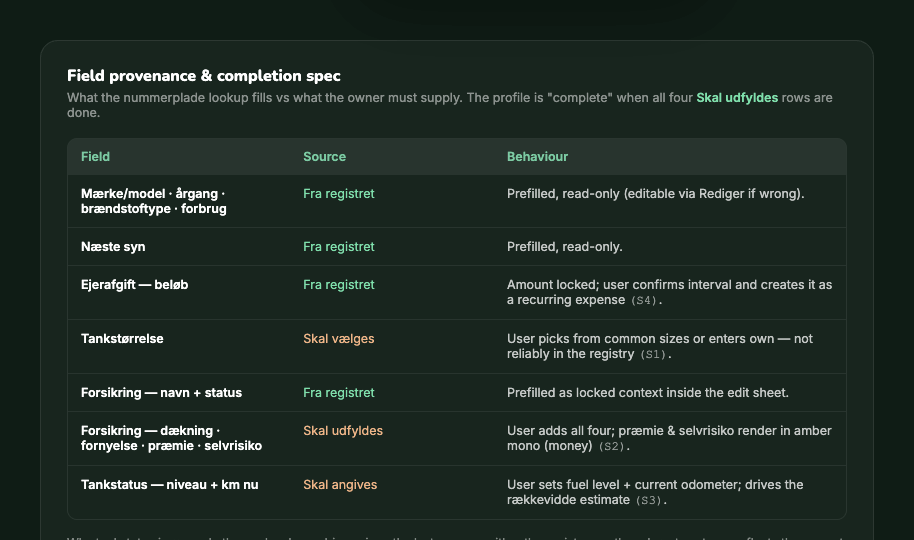
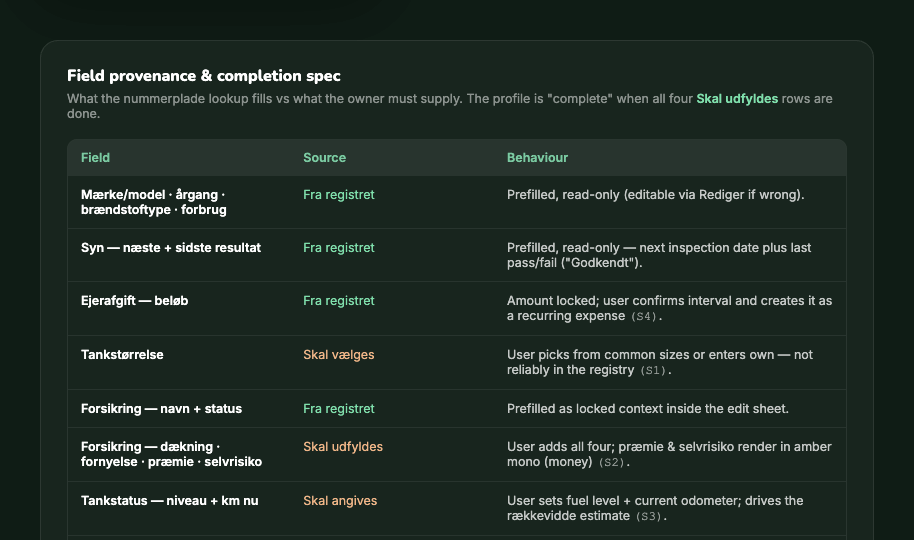
docs: Bilen handoff v2 — Syn section + Reparationshistorik + S5 sheet (prototype 20)
Adds the read-only Syn section (næste + sidste syn), the owner-logged
Reparationshistorik (dashed empty state / populated list, amber-mono costs)
and the S5 'Tilføj reparation' sheet. Product note: the split-with-crew
toggle and per-entry split affordances are NOT implemented for now — repair
expense sharing will be decided as an Afregning setting (GVM ticket).

diff --git a/design_handoff_bilen/GoVehlo Bilen.dc.html b/design_handoff_bilen/GoVehlo Bilen.dc.html
@@ -205,7 +205,7 @@
         <div style="margin-bottom:28px;">
       <div style="font-family:'Inter',sans-serif;font-size:11px;font-weight:700;color:#7EC8A4;letter-spacing:.16em;text-transform:uppercase;margin-bottom:10px;">Bilen — chosen design (split tracks)</div>
       <h2 style="font-family:'Nunito',sans-serif;font-weight:900;font-size:26px;color:#fff;margin:0 0 10px;letter-spacing:-.01em;">Two tracks: review the auto data, do your part</h2>
-      <p style="font-family:'Inter',sans-serif;font-size:14px;color:rgba(255,255,255,.6);margin:0;max-width:700px;line-height:1.6;text-wrap:pretty;">A two-track band splits the profile into <b style="color:#7EE0AB;font-weight:600;">Fra registret</b> (already done, trust it) and <b style="color:#fff;font-weight:600;">Skal udfyldes</b> (your job). All the work lives in one "Skal udfyldes af dig" card up top; the sections below stay calm — empty fields read "Ikke angivet" rather than shouting a CTA in every section.</p>
+      <p style="font-family:'Inter',sans-serif;font-size:14px;color:rgba(255,255,255,.6);margin:0;max-width:700px;line-height:1.6;text-wrap:pretty;">A two-track band splits the profile into <b style="color:#7EE0AB;font-weight:600;">Fra registret</b> (already done, trust it) and <b style="color:#fff;font-weight:600;">Skal udfyldes</b> (your job). All the work lives in one "Skal udfyldes af dig" card up top; the sections below stay calm — empty fields read "Ikke angivet" rather than shouting a CTA in every section. Syn shows next inspection + last result from the registry; Reparationshistorik is an owner-logged, splittable expense log — empty in B1, populated in B2.</p>
     </div>
     <div style="display:flex;gap:28px;flex-wrap:wrap;align-items:flex-start;">
 
@@ -243,8 +243,16 @@
               <div style="background:#fff;border-radius:16px;padding:2px 16px;box-shadow:0 1px 3px rgba(26,46,31,.07),0 2px 8px rgba(26,46,31,.04);">
                 <div style="display:flex;align-items:center;gap:12px;padding:13px 0;"><svg width="18" height="18" viewBox="0 0 24 24" fill="none" stroke="#6B8F7A" stroke-width="2" stroke-linecap="round" stroke-linejoin="round"><path d="M3 12h11v6H3z"></path><path d="M14 14h3l2 2v2h-5"></path></svg><span style="flex:1;font-family:'Inter',sans-serif;font-size:14px;color:#6B8F7A;">Mærke/model</span><span style="font-family:'Inter',sans-serif;font-size:14px;font-weight:600;color:#1A2E1F;">VW T-Roc</span></div>
                 <div style="display:flex;align-items:center;gap:12px;padding:13px 0;border-top:1px solid #EEF3F0;"><svg width="18" height="18" viewBox="0 0 24 24" fill="none" stroke="#6B8F7A" stroke-width="2" stroke-linecap="round" stroke-linejoin="round"><path d="M12 2s6 6.5 6 11a6 6 0 0 1-12 0c0-4.5 6-11 6-11z"></path></svg><span style="flex:1;font-family:'Inter',sans-serif;font-size:14px;color:#6B8F7A;">Brændstof · forbrug</span><span style="font-family:'Inter',sans-serif;font-size:14px;font-weight:600;color:#1A2E1F;">Benzin · 4,8</span></div>
-                <div style="display:flex;align-items:center;gap:12px;padding:13px 0;border-top:1px solid #EEF3F0;"><svg width="18" height="18" viewBox="0 0 24 24" fill="none" stroke="#6B8F7A" stroke-width="2" stroke-linecap="round" stroke-linejoin="round"><rect x="3" y="4" width="18" height="18" rx="2"></rect><line x1="3" y1="10" x2="21" y2="10"></line></svg><span style="flex:1;font-family:'Inter',sans-serif;font-size:14px;color:#6B8F7A;">Næste syn</span><span style="font-family:'Inter',sans-serif;font-size:14px;font-weight:600;color:#1A2E1F;">27. jan 2028</span></div>
                 <div style="display:flex;align-items:center;gap:12px;padding:13px 0;border-top:1px solid #EEF3F0;"><svg width="18" height="18" viewBox="0 0 24 24" fill="none" stroke="#6B8F7A" stroke-width="2" stroke-linecap="round" stroke-linejoin="round"><path d="M4 2h11l5 5v15H4z"></path><path d="M8 7h4M8 11h8"></path></svg><span style="flex:1;font-family:'Inter',sans-serif;font-size:14px;color:#6B8F7A;">Ejerafgift</span><span style="font-family:'Courier New',monospace;font-size:13px;font-weight:700;color:#F4A261;">460 kr/halvår</span></div>
+              </div>
+            </div>
+
+            <!-- Syn -->
+            <div>
+              <div style="display:flex;align-items:center;gap:8px;margin-bottom:9px;"><span style="font-family:'Nunito',sans-serif;font-weight:800;font-size:16px;color:#1A2E1F;">Syn</span><span style="display:inline-flex;align-items:center;gap:3px;font-family:'Inter',sans-serif;font-size:10px;font-weight:600;color:#2D6A4F;background:#E3F0E8;padding:2px 7px;border-radius:6px;"><svg width="9" height="9" viewBox="0 0 24 24" fill="none" stroke="#2D6A4F" stroke-width="3" stroke-linecap="round" stroke-linejoin="round"><polyline points="20 6 9 17 4 12"></polyline></svg>Fra registret</span></div>
+              <div style="background:#fff;border-radius:16px;padding:2px 16px;box-shadow:0 1px 3px rgba(26,46,31,.07),0 2px 8px rgba(26,46,31,.04);">
+                <div style="display:flex;align-items:center;gap:12px;padding:13px 0;"><svg width="18" height="18" viewBox="0 0 24 24" fill="none" stroke="#6B8F7A" stroke-width="2" stroke-linecap="round" stroke-linejoin="round"><rect x="3" y="4" width="18" height="18" rx="2"></rect><line x1="16" y1="2" x2="16" y2="6"></line><line x1="8" y1="2" x2="8" y2="6"></line><line x1="3" y1="10" x2="21" y2="10"></line></svg><span style="flex:1;font-family:'Inter',sans-serif;font-size:14px;color:#6B8F7A;">Næste syn</span><span style="font-family:'Inter',sans-serif;font-size:14px;font-weight:600;color:#1A2E1F;">27. jan 2028</span></div>
+                <div style="display:flex;align-items:center;gap:12px;padding:13px 0;border-top:1px solid #EEF3F0;"><svg width="18" height="18" viewBox="0 0 24 24" fill="none" stroke="#52B788" stroke-width="2" stroke-linecap="round" stroke-linejoin="round"><path d="M22 11.08V12a10 10 0 1 1-5.93-9.14"></path><polyline points="22 4 12 14.01 9 11.01"></polyline></svg><span style="flex:1;font-family:'Inter',sans-serif;font-size:14px;color:#6B8F7A;">Sidste syn</span><span style="display:inline-flex;align-items:center;gap:7px;"><span style="background:#D1F5E3;color:#1A7A47;border-radius:9999px;padding:2px 9px;font-size:10px;font-weight:600;font-family:'Inter',sans-serif;">Godkendt</span><span style="font-family:'Inter',sans-serif;font-size:14px;font-weight:600;color:#1A2E1F;">27. jan 2026</span></span></div>
               </div>
             </div>
 
@@ -253,6 +261,17 @@
               <div style="padding:13px 16px;display:flex;align-items:center;gap:12px;"><svg width="18" height="18" viewBox="0 0 24 24" fill="none" stroke="#C0CCC5" stroke-width="2" stroke-linecap="round" stroke-linejoin="round"><path d="M3 12h11v6H3z"></path><path d="M14 14h3l2 2v2h-5"></path></svg><span style="flex:1;font-family:'Inter',sans-serif;font-size:14px;color:#1A2E1F;">Tankstørrelse</span><span style="font-family:'Inter',sans-serif;font-size:13px;color:#C0CCC5;font-style:italic;">Ikke angivet</span></div>
               <div style="padding:13px 16px;display:flex;align-items:center;gap:12px;border-top:1px solid #EEF3F0;"><svg width="18" height="18" viewBox="0 0 24 24" fill="none" stroke="#C0CCC5" stroke-width="2" stroke-linecap="round" stroke-linejoin="round"><path d="M3 12h11v6H3z"></path><path d="M14 14h3l2 2v2h-5"></path><line x1="6" y1="15" x2="9" y2="15"></line></svg><span style="flex:1;font-family:'Inter',sans-serif;font-size:14px;color:#1A2E1F;">Tankstatus</span><span style="font-family:'Inter',sans-serif;font-size:13px;color:#C0CCC5;font-style:italic;">Ikke angivet</span></div>
               <div style="padding:13px 16px;display:flex;align-items:center;gap:12px;border-top:1px solid #EEF3F0;"><svg width="18" height="18" viewBox="0 0 24 24" fill="none" stroke="#C0CCC5" stroke-width="2" stroke-linecap="round" stroke-linejoin="round"><path d="M12 22s8-4 8-10V5l-8-3-8 3v7c0 6 8 10 8 10z"></path></svg><span style="flex:1;font-family:'Inter',sans-serif;font-size:14px;color:#1A2E1F;">Forsikringsdetaljer</span><span style="font-family:'Inter',sans-serif;font-size:13px;color:#C0CCC5;font-style:italic;">Kun navn</span></div>
+            </div>
+
+            <!-- Reparationshistorik empty -->
+            <div>
+              <div style="display:flex;align-items:center;gap:8px;margin-bottom:9px;"><span style="font-family:'Nunito',sans-serif;font-weight:800;font-size:16px;color:#1A2E1F;">Reparationshistorik</span><span style="display:inline-flex;align-items:center;font-family:'Inter',sans-serif;font-size:10px;font-weight:600;color:#6B8F7A;background:#EEF3F0;padding:2px 7px;border-radius:6px;">Tilføjet af dig</span></div>
+              <button style="width:100%;background:#fff;border:1.5px dashed #B7D3C3;border-radius:16px;padding:20px 16px;display:flex;flex-direction:column;align-items:center;gap:8px;cursor:pointer;text-align:center;-webkit-tap-highlight-color:transparent;">
+                <div style="width:42px;height:42px;border-radius:12px;background:#D8F3DC;display:flex;align-items:center;justify-content:center;"><svg width="21" height="21" viewBox="0 0 24 24" fill="none" stroke="#2D6A4F" stroke-width="2" stroke-linecap="round" stroke-linejoin="round"><path d="M14.7 6.3a1 1 0 0 0 0 1.4l1.6 1.6a1 1 0 0 0 1.4 0l3.77-3.77a6 6 0 0 1-7.94 7.94l-6.91 6.91a2.12 2.12 0 0 1-3-3l6.91-6.91a6 6 0 0 1 7.94-7.94l-3.76 3.76z"></path></svg></div>
+                <div style="font-family:'Nunito',sans-serif;font-weight:700;font-size:14px;color:#1A2E1F;">Ingen reparationer endnu</div>
+                <div style="font-family:'Inter',sans-serif;font-size:12px;color:#6B8F7A;line-height:1.45;max-width:230px;">Log reparationer og service. Udgiften kan deles med jer, der bruger bilen.</div>
+                <span style="margin-top:4px;display:inline-flex;align-items:center;gap:5px;font-family:'Inter',sans-serif;font-size:13px;color:#2D6A4F;font-weight:600;"><svg width="15" height="15" viewBox="0 0 24 24" fill="none" stroke="#2D6A4F" stroke-width="2" stroke-linecap="round" stroke-linejoin="round"><line x1="12" y1="5" x2="12" y2="19"></line><line x1="5" y1="12" x2="19" y2="12"></line></svg>Tilføj reparation</span>
+              </button>
             </div>
 
           </div>
@@ -322,6 +341,39 @@
               </div>
             </div>
 
+            <!-- Syn -->
+            <div>
+              <div style="display:flex;align-items:center;gap:8px;margin-bottom:9px;"><span style="font-family:'Nunito',sans-serif;font-weight:800;font-size:16px;color:#1A2E1F;">Syn</span><span style="display:inline-flex;align-items:center;gap:3px;font-family:'Inter',sans-serif;font-size:10px;font-weight:600;color:#2D6A4F;background:#E3F0E8;padding:2px 7px;border-radius:6px;"><svg width="9" height="9" viewBox="0 0 24 24" fill="none" stroke="#2D6A4F" stroke-width="3" stroke-linecap="round" stroke-linejoin="round"><polyline points="20 6 9 17 4 12"></polyline></svg>Fra registret</span></div>
+              <div style="background:#fff;border-radius:16px;padding:2px 16px;box-shadow:0 1px 3px rgba(26,46,31,.07),0 2px 8px rgba(26,46,31,.04);">
+                <div style="display:flex;align-items:center;gap:12px;padding:13px 0;"><svg width="18" height="18" viewBox="0 0 24 24" fill="none" stroke="#6B8F7A" stroke-width="2" stroke-linecap="round" stroke-linejoin="round"><rect x="3" y="4" width="18" height="18" rx="2"></rect><line x1="16" y1="2" x2="16" y2="6"></line><line x1="8" y1="2" x2="8" y2="6"></line><line x1="3" y1="10" x2="21" y2="10"></line></svg><span style="flex:1;font-family:'Inter',sans-serif;font-size:14px;color:#6B8F7A;">Næste syn</span><span style="font-family:'Inter',sans-serif;font-size:14px;font-weight:600;color:#1A2E1F;">27. jan 2028</span></div>
+                <div style="display:flex;align-items:center;gap:12px;padding:13px 0;border-top:1px solid #EEF3F0;"><svg width="18" height="18" viewBox="0 0 24 24" fill="none" stroke="#52B788" stroke-width="2" stroke-linecap="round" stroke-linejoin="round"><path d="M22 11.08V12a10 10 0 1 1-5.93-9.14"></path><polyline points="22 4 12 14.01 9 11.01"></polyline></svg><span style="flex:1;font-family:'Inter',sans-serif;font-size:14px;color:#6B8F7A;">Sidste syn</span><span style="display:inline-flex;align-items:center;gap:7px;"><span style="background:#D1F5E3;color:#1A7A47;border-radius:9999px;padding:2px 9px;font-size:10px;font-weight:600;font-family:'Inter',sans-serif;">Godkendt</span><span style="font-family:'Inter',sans-serif;font-size:14px;font-weight:600;color:#1A2E1F;">27. jan 2026</span></span></div>
+              </div>
+            </div>
+
+            <!-- Reparationshistorik -->
+            <div>
+              <div style="display:flex;justify-content:space-between;align-items:center;margin-bottom:9px;"><div style="display:flex;align-items:center;gap:8px;"><span style="font-family:'Nunito',sans-serif;font-weight:800;font-size:16px;color:#1A2E1F;">Reparationshistorik</span><span style="display:inline-flex;align-items:center;font-family:'Inter',sans-serif;font-size:10px;font-weight:600;color:#6B8F7A;background:#EEF3F0;padding:2px 7px;border-radius:6px;">Tilføjet af dig</span></div><span style="font-family:'Inter',sans-serif;font-size:13px;color:#2D6A4F;font-weight:600;">Tilføj</span></div>
+              <div style="background:#fff;border-radius:16px;box-shadow:0 1px 3px rgba(26,46,31,.07),0 2px 8px rgba(26,46,31,.04);overflow:hidden;">
+                <div style="padding:13px 16px;display:flex;align-items:flex-start;gap:12px;">
+                  <div style="width:40px;height:40px;border-radius:11px;background:#D8F3DC;display:flex;align-items:center;justify-content:center;flex-shrink:0;"><svg width="20" height="20" viewBox="0 0 24 24" fill="none" stroke="#2D6A4F" stroke-width="2" stroke-linecap="round" stroke-linejoin="round"><path d="M14.7 6.3a1 1 0 0 0 0 1.4l1.6 1.6a1 1 0 0 0 1.4 0l3.77-3.77a6 6 0 0 1-7.94 7.94l-6.91 6.91a2.12 2.12 0 0 1-3-3l6.91-6.91a6 6 0 0 1 7.94-7.94l-3.76 3.76z"></path></svg></div>
+                  <div style="flex:1;min-width:0;">
+                    <div style="display:flex;justify-content:space-between;align-items:baseline;gap:8px;"><span style="font-family:'Nunito',sans-serif;font-weight:700;font-size:14px;color:#1A2E1F;">Nye vinterdæk</span><span style="font-family:'Courier New',monospace;font-weight:700;font-size:14px;color:#F4A261;white-space:nowrap;">4.280 kr</span></div>
+                    <div style="font-family:'Inter',sans-serif;font-size:11.5px;color:#6B8F7A;margin-top:2px;">27. nov 2025 · Dæk &amp; Fælge ApS · ved <span style="font-family:'Courier New',monospace;">92.400 km</span></div>
+                    <div style="margin-top:7px;"><span style="display:inline-flex;align-items:center;gap:4px;font-family:'Inter',sans-serif;font-size:10.5px;font-weight:600;color:#1A7A47;background:#D1F5E3;padding:2px 9px;border-radius:9999px;"><svg width="10" height="10" viewBox="0 0 24 24" fill="none" stroke="#1A7A47" stroke-width="3" stroke-linecap="round" stroke-linejoin="round"><polyline points="20 6 9 17 4 12"></polyline></svg>Delt med 3</span></div>
+                  </div>
+                </div>
+                <div style="padding:13px 16px;border-top:1px solid #EEF3F0;display:flex;align-items:flex-start;gap:12px;">
+                  <div style="width:40px;height:40px;border-radius:11px;background:#D8F3DC;display:flex;align-items:center;justify-content:center;flex-shrink:0;"><svg width="20" height="20" viewBox="0 0 24 24" fill="none" stroke="#2D6A4F" stroke-width="2" stroke-linecap="round" stroke-linejoin="round"><path d="M14.7 6.3a1 1 0 0 0 0 1.4l1.6 1.6a1 1 0 0 0 1.4 0l3.77-3.77a6 6 0 0 1-7.94 7.94l-6.91 6.91a2.12 2.12 0 0 1-3-3l6.91-6.91a6 6 0 0 1 7.94-7.94l-3.76 3.76z"></path></svg></div>
+                  <div style="flex:1;min-width:0;">
+                    <div style="display:flex;justify-content:space-between;align-items:baseline;gap:8px;"><span style="font-family:'Nunito',sans-serif;font-weight:700;font-size:14px;color:#1A2E1F;">Bremseklodser for</span><span style="font-family:'Courier New',monospace;font-weight:700;font-size:14px;color:#F4A261;white-space:nowrap;">1.850 kr</span></div>
+                    <div style="font-family:'Inter',sans-serif;font-size:11.5px;color:#6B8F7A;margin-top:2px;">14. sep 2025 · AutoMester · ved <span style="font-family:'Courier New',monospace;">89.100 km</span></div>
+                    <div style="margin-top:7px;"><span style="display:inline-flex;align-items:center;gap:5px;font-family:'Inter',sans-serif;font-size:11px;font-weight:600;color:#2D6A4F;border:1px solid #B7D3C3;padding:3px 10px;border-radius:8px;"><svg width="12" height="12" viewBox="0 0 24 24" fill="none" stroke="#2D6A4F" stroke-width="2" stroke-linecap="round" stroke-linejoin="round"><path d="M4 12v8a2 2 0 0 0 2 2h12a2 2 0 0 0 2-2v-8"></path><polyline points="16 6 12 2 8 6"></polyline><line x1="12" y1="2" x2="12" y2="15"></line></svg>Del udgift</span></div>
+                  </div>
+                </div>
+                <button style="width:100%;padding:12px 16px;border:none;border-top:1px solid #EEF3F0;background:#FBFDFC;display:flex;align-items:center;justify-content:center;gap:6px;cursor:pointer;-webkit-tap-highlight-color:transparent;"><svg width="15" height="15" viewBox="0 0 24 24" fill="none" stroke="#2D6A4F" stroke-width="2" stroke-linecap="round" stroke-linejoin="round"><line x1="12" y1="5" x2="12" y2="19"></line><line x1="5" y1="12" x2="19" y2="12"></line></svg><span style="font-family:'Inter',sans-serif;font-size:13px;color:#2D6A4F;font-weight:600;">Tilføj reparation</span></button>
+              </div>
+            </div>
+
           </div>
         </div>
       </div>
@@ -332,8 +384,8 @@
   <section id="sheets" data-screen-label="Edit sheets" style="max-width:1240px;margin:80px auto 0;">
         <div style="margin-bottom:26px;">
       <div style="font-family:'Inter',sans-serif;font-size:11px;font-weight:700;color:#7EC8A4;letter-spacing:.16em;text-transform:uppercase;margin-bottom:10px;">Edit sheets</div>
-      <h2 style="font-family:'Nunito',sans-serif;font-weight:900;font-size:26px;color:#fff;margin:0 0 10px;letter-spacing:-.01em;">The four things you complete</h2>
-      <p style="font-family:'Inter',sans-serif;font-size:14px;color:rgba(255,255,255,.6);margin:0;max-width:700px;line-height:1.6;text-wrap:pretty;">Bottom sheets, shared by both directions. Each opens from its "Angiv/Tilføj/Opret" affordance. Auto-known values are shown as locked context so the user only fills what's genuinely theirs.</p>
+      <h2 style="font-family:'Nunito',sans-serif;font-weight:900;font-size:26px;color:#fff;margin:0 0 10px;letter-spacing:-.01em;">The four tasks — plus the repair log</h2>
+      <p style="font-family:'Inter',sans-serif;font-size:14px;color:rgba(255,255,255,.6);margin:0;max-width:700px;line-height:1.6;text-wrap:pretty;">Bottom sheets, shared by both directions. Each opens from its "Angiv/Tilføj/Opret" affordance. Auto-known values are shown as locked context so the user only fills what's genuinely theirs. <b style="color:#fff;font-weight:600;">S5</b> logs a repair into the owner-kept Reparationshistorik — its beløb can be split as a shared expense.</p>
     </div>
     <div style="display:flex;gap:26px;flex-wrap:wrap;align-items:flex-start;">
 
@@ -403,6 +455,24 @@
           <button style="width:100%;height:48px;background:#F4A261;border:none;border-radius:13px;font-family:'Nunito',sans-serif;font-weight:700;font-size:15px;color:#1A2E1F;cursor:pointer;box-shadow:0 4px 16px rgba(244,162,97,.32);">Opret fast udgift</button>
         </div>
       </div>
+
+      <!-- S5 Reparation -->
+      <div id="S5" style="width:300px;flex-shrink:0;">
+        <div style="display:flex;align-items:center;gap:8px;margin-bottom:10px;"><span style="background:#3D5C48;color:#fff;font-family:'Nunito',sans-serif;font-weight:800;font-size:12px;padding:3px 9px;border-radius:7px;">S5</span><span style="font-family:'Nunito',sans-serif;font-weight:700;font-size:14px;color:#fff;">Tilføj reparation</span></div>
+        <div style="width:300px;background:#fff;border-radius:24px;box-shadow:0 30px 60px rgba(0,0,0,.5),0 0 0 1px rgba(255,255,255,.07);padding:8px 18px 20px;">
+          <div style="width:38px;height:4px;border-radius:2px;background:#D9E4DE;margin:6px auto 16px;"></div>
+          <div style="font-family:'Nunito',sans-serif;font-weight:800;font-size:19px;color:#1A2E1F;margin-bottom:14px;">Tilføj reparation</div>
+          <div style="margin-bottom:11px;"><label style="font-family:'Inter',sans-serif;font-size:12px;font-weight:600;color:#6B8F7A;display:block;margin-bottom:6px;">Hvad blev lavet</label><div style="border:1.5px solid #E2EDE8;border-radius:12px;padding:12px 14px;font-family:'Inter',sans-serif;font-size:14px;color:#1A2E1F;">Nye vinterdæk</div></div>
+          <div style="display:flex;gap:10px;margin-bottom:11px;">
+            <div style="flex:1;"><label style="font-family:'Inter',sans-serif;font-size:12px;font-weight:600;color:#6B8F7A;display:block;margin-bottom:6px;">Dato</label><div style="border:1.5px solid #E2EDE8;border-radius:12px;padding:12px 14px;display:flex;align-items:center;justify-content:space-between;"><span style="font-family:'Inter',sans-serif;font-size:14px;color:#1A2E1F;">27. nov 2025</span><svg width="16" height="16" viewBox="0 0 24 24" fill="none" stroke="#6B8F7A" stroke-width="2" stroke-linecap="round" stroke-linejoin="round"><rect x="3" y="4" width="18" height="18" rx="2"></rect><line x1="3" y1="10" x2="21" y2="10"></line></svg></div></div>
+            <div style="flex:1;"><label style="font-family:'Inter',sans-serif;font-size:12px;font-weight:600;color:#6B8F7A;display:block;margin-bottom:6px;">Km-tæller</label><div style="border:1.5px solid #E2EDE8;border-radius:12px;padding:12px 14px;font-family:'Courier New',monospace;font-size:14px;color:#1A2E1F;">92.400</div></div>
+          </div>
+          <div style="margin-bottom:11px;"><label style="font-family:'Inter',sans-serif;font-size:12px;font-weight:600;color:#6B8F7A;display:block;margin-bottom:6px;">Værksted (valgfrit)</label><div style="border:1.5px solid #E2EDE8;border-radius:12px;padding:12px 14px;font-family:'Inter',sans-serif;font-size:14px;color:#1A2E1F;">Dæk &amp; Fælge ApS</div></div>
+          <div style="margin-bottom:14px;"><label style="font-family:'Inter',sans-serif;font-size:12px;font-weight:600;color:#6B8F7A;display:block;margin-bottom:6px;">Beløb</label><div style="border:1.5px solid #E2EDE8;border-radius:12px;padding:12px 14px;display:flex;align-items:center;justify-content:space-between;"><span style="font-family:'Courier New',monospace;font-size:16px;color:#F4A261;font-weight:700;">4.280</span><span style="font-family:'Inter',sans-serif;font-size:13px;color:#6B8F7A;">kr</span></div></div>
+          <div style="display:flex;align-items:center;justify-content:space-between;background:#F2F7F4;border-radius:12px;padding:12px 14px;margin-bottom:18px;"><div style="flex:1;"><div style="font-family:'Inter',sans-serif;font-size:13.5px;color:#1A2E1F;font-weight:600;">Del udgift med crew</div><div style="font-family:'Inter',sans-serif;font-size:11.5px;color:#6B8F7A;margin-top:1px;">Deles ligeligt mellem 3 personer</div></div><span style="width:44px;height:26px;border-radius:13px;background:#2D6A4F;position:relative;flex-shrink:0;"><span style="position:absolute;top:3px;right:3px;width:20px;height:20px;border-radius:50%;background:#fff;"></span></span></div>
+          <button style="width:100%;height:48px;background:#2D6A4F;border:none;border-radius:13px;font-family:'Nunito',sans-serif;font-weight:700;font-size:15px;color:#fff;cursor:pointer;box-shadow:0 4px 16px rgba(45,106,79,.28);">Gem reparation</button>
+        </div>
+      </div>
     </div>
 
   </section>
@@ -420,9 +490,9 @@
         <div style="padding:11px 13px;border-top:1px solid rgba(255,255,255,.07);"><span style="color:#7EE0AB;">Fra registret</span></div>
         <div style="padding:11px 13px;color:rgba(255,255,255,.75);border-top:1px solid rgba(255,255,255,.07);">Prefilled, read-only (editable via Rediger if wrong).</div>
 
-        <div style="padding:11px 13px;color:#fff;font-weight:600;border-top:1px solid rgba(255,255,255,.07);">Næste syn</div>
+        <div style="padding:11px 13px;color:#fff;font-weight:600;border-top:1px solid rgba(255,255,255,.07);">Syn — næste + sidste resultat</div>
         <div style="padding:11px 13px;border-top:1px solid rgba(255,255,255,.07);"><span style="color:#7EE0AB;">Fra registret</span></div>
-        <div style="padding:11px 13px;color:rgba(255,255,255,.75);border-top:1px solid rgba(255,255,255,.07);">Prefilled, read-only.</div>
+        <div style="padding:11px 13px;color:rgba(255,255,255,.75);border-top:1px solid rgba(255,255,255,.07);">Prefilled, read-only — next inspection date plus last pass/fail ("Godkendt").</div>
 
         <div style="padding:11px 13px;color:#fff;font-weight:600;border-top:1px solid rgba(255,255,255,.07);">Ejerafgift — beløb</div>
         <div style="padding:11px 13px;border-top:1px solid rgba(255,255,255,.07);"><span style="color:#7EE0AB;">Fra registret</span></div>
@@ -443,6 +513,10 @@
         <div style="padding:11px 13px;color:#fff;font-weight:600;border-top:1px solid rgba(255,255,255,.07);">Tankstatus — niveau + km nu</div>
         <div style="padding:11px 13px;border-top:1px solid rgba(255,255,255,.07);"><span style="color:#F0B688;">Skal angives</span></div>
         <div style="padding:11px 13px;color:rgba(255,255,255,.75);border-top:1px solid rgba(255,255,255,.07);">User sets fuel level + current odometer; drives the rækkevidde estimate <span style="font-family:'Courier New',monospace;color:rgba(255,255,255,.55);">(S3)</span>.</div>
+
+        <div style="padding:11px 13px;color:#fff;font-weight:600;border-top:1px solid rgba(255,255,255,.07);">Reparationshistorik</div>
+        <div style="padding:11px 13px;border-top:1px solid rgba(255,255,255,.07);"><span style="color:#F0B688;">Tilføjet af dig</span></div>
+        <div style="padding:11px 13px;color:rgba(255,255,255,.75);border-top:1px solid rgba(255,255,255,.07);">Owner logs each repair (dato · værksted · km · beløb); beløb renders in amber mono and can be split as a shared expense <span style="font-family:'Courier New',monospace;color:rgba(255,255,255,.55);">(S5)</span>.</div>
       </div>
       <p style="font-family:'Inter',sans-serif;font-size:12px;color:rgba(255,255,255,.45);margin:14px 0 0;line-height:1.55;">Why tankstatus is manual · the car has been driven since the last syn, so neither the registry nor the odometer-at-syn reflects the current fuel level. The owner's one-time reading seeds the running estimate, which each logged trip then decrements. Colour · "needs input" affordances use forest (action), never amber — amber stays reserved for money (præmie, selvrisiko, ejerafgift).</p>
     </div>

diff --git a/design_handoff_bilen/README.md b/design_handoff_bilen/README.md
@@ -3,11 +3,15 @@
 ## Overview
 The **Bilen** ("The car") screen is GoVehlo's car-detail page, redesigned around a single idea: a Danish licence-plate (nummerplade) lookup can pre-fill most of a car's facts, but four things only the owner knows must still be completed. The redesign turns a flat detail page into a **guided profile** that clearly separates auto-filled data (**Fra registret** — "from the registry") from **needs-input** tasks (**Skal udfyldes** — "must be completed").
 
-The four owner-supplied items are:
+The four **required** owner-supplied tasks are:
 1. **Tankstørrelse** — fuel-tank size (not reliable in the registry)
 2. **Forsikringsdetaljer** — insurance coverage, renewal, premium, deductible
 3. **Ejerafgift som fast udgift** — turning the ownership tax into a recurring shared expense
 4. **Tankstatus** — current fuel level + odometer reading (seeds the range/consumption estimate)
+
+Two further sections round out the profile but are **not** part of the required-completion count:
+- **Syn** — vehicle-inspection info, **Fra registret** and read-only: next inspection date + last result ("Godkendt").
+- **Reparationshistorik** — an **owner-logged** repair/service log (**Tilføjet af dig**). Optional and ongoing rather than a one-time task; each entry's cost can be **split as a shared expense** like fuel or ejerafgift.
 
 ## About the Design Files
 The file in this bundle (`GoVehlo Bilen.dc.html`) is a **design reference created in HTML** — a prototype that shows the intended look, content, and behaviour. It is **not production code to copy directly**. It is authored as a "Design Component" and depends on a proprietary runtime (`support.js`) and design-system stylesheets that will not be present in your codebase.
@@ -18,10 +22,10 @@ The task is to **recreate these designs in the GoVehlo app's existing environmen
 **High-fidelity (hifi).** Colours, typography, spacing, radii, and copy are final and should be matched pixel-for-pixel using the codebase's existing GoVehlo design-system primitives. All copy is Danish and is final — do not translate or paraphrase.
 
 ## Layout note — the HTML canvas vs. the actual screen
-The HTML is a **presentation canvas** on a dark green background showing several 320px-wide phone mockups side by side. **Only the phone contents are the product.** The dark canvas, the section intro headings ("Two tracks…", "The four things you complete"), the B1/B2/S1–S4 badges, and the spec table at the bottom are documentation scaffolding — **do not build them**. Build:
+The HTML is a **presentation canvas** on a dark green background showing several 320px-wide phone mockups side by side. **Only the phone contents are the product.** The dark canvas, the section intro headings ("Two tracks…", "The four tasks — plus the repair log"), the B1/B2/S1–S5 badges, and the spec table at the bottom are documentation scaffolding — **do not build them**. Build:
 
-- **The Bilen screen** in two states (after-lookup with tasks pending, and complete) — this is the chosen **split-tracks** design.
-- **Four bottom sheets** that open from the task affordances.
+- **The Bilen screen** in two states (after-lookup with tasks pending, and complete) — this is the chosen **split-tracks** design. Each state includes a read-only **Syn** section and a **Reparationshistorik** section (empty in B1, populated in B2).
+- **Five bottom sheets** — the four completion tasks (S1–S4) plus **S5 "Tilføj reparation"** for logging a repair into Reparationshistorik.
 
 An earlier explored direction ("Direction A — guided completion") exists in the source but is set `display:none` and is **archived/rejected — ignore it**. The chosen direction is **split tracks**.
 
@@ -41,6 +45,8 @@ An earlier explored direction ("Direction A — guided completion") exists in th
      - Row copy: "Vælg tankstørrelse / Vi kan ikke slå den præcise størrelse op." · "Tilføj forsikringsdetaljer / Dækning, fornyelse, præmie, selvrisiko." · "Opret ejerafgift som fast udgift / 460 kr halvårligt fra registret." · "Angiv tankstatus / Benzin i tanken nu + km-tæller."
   3. **"Fra registret" group** — section title + small "Automatisk" badge (leaf check, `#E3F0E8` bg, `#2D6A4F` text). White card, rows: "Mærke/model → VW T-Roc", "Brændstof · forbrug → Benzin · 4,8", "Næste syn → 27. jan 2028", "Ejerafgift → 460 kr/halvår" (value in **amber mono**). Each row: 18px muted icon + label (`#6B8F7A`) + value (`#1A2E1F`, 600). Rows separated by `1px solid #EEF3F0`.
   4. **Muted incomplete card** — one white card listing not-yet-filled fields with italic muted-grey (`#C0CCC5`) values: "Tankstørrelse → Ikke angivet", "Tankstatus → Ikke angivet", "Forsikringsdetaljer → Kun navn". Calm, no shouting CTA per row (the CTAs live only in the task card at top).
+  5. **Syn section** (Fra registret, read-only) — section title "Syn" + "Fra registret" badge. White card, two rows: "Næste syn → 27. jan 2028" (calendar icon), "Sidste syn → [green \"Godkendt\" pill] 27. jan 2026" (check-circle icon). No edit affordance — it's registry data.
+  6. **Reparationshistorik — empty state** (Tilføjet af dig) — section title + grey "Tilføjet af dig" badge. A **dashed** white card (`1.5px dashed #B7D3C3`, 16px radius), centred: 42px mist tile with a **wrench** icon, "Ingen reparationer endnu" (Nunito 700, 14px), helper "Log reparationer og service. Udgiften kan deles med jer, der bruger bilen.", and a Forest "+ Tilføj reparation" link.
 
 ### 2. Bilen — main screen (state: complete) · ref `B2`
 **Purpose:** Every field filled; the profile reads calm and confirmed.
@@ -51,6 +57,11 @@ Same shell as B1. Differences:
 - **Tankstatus card** — "Anslået niveau nu" 68% · 37 L, green progress bar at 68%, "Rækkevidde ~770 km", and a caption "Opdateret i dag ved 96.500 km" (km value in mono). "Opdater" link.
 - **Forsikring card** — header row with shield tile, "Tryg Forsikring A/S / Kasko + ansvar", green "Aktiv" pill; then a 2×2 grid: Fornyelse 1. jan 2027, Præmie **485 kr/md** (amber mono), Selvrisiko **5.412 kr** (amber mono), Dækning Kasko. Uppercase 10px labels.
 - **Ejerafgift card** — receipt tile + "460 kr halvårligt" (amber mono) + "Grøn ejerafgift · fra registret"; row "Næste betaling → 12. juli 2026"; a leaf-check confirmation line "Oprettet som fast udgift".
+- **Syn section** — identical to B1 (read-only): "Næste syn → 27. jan 2028", "Sidste syn → Godkendt · 27. jan 2026".
+- **Reparationshistorik — populated** — section header with "Tilføjet af dig" badge and a "Tilføj" link. White card listing repair entries; each entry = 40px mist wrench tile + a title row (name in Nunito 700 left, **cost in amber mono** right) + a meta sub-line "date · værksted · ved [km] km" (km in mono) + a status affordance. Two sample entries:
+  - "Nye vinterdæk / 4.280 kr" · "27. nov 2025 · Dæk & Fælge ApS · ved 92.400 km" · green **"Delt med 3"** pill (already split).
+  - "Bremseklodser for / 1.850 kr" · "14. sep 2025 · AutoMester · ved 89.100 km" · outlined **"Del udgift"** chip (not yet split — tap to open the split flow).
+  A footer "+ Tilføj reparation" button (`#FBFDFC` bg) opens S5.
 
 ### 3. Edit sheet — Tankstørrelse · ref `S1`
 Bottom sheet: 24px top radius, white, grab-handle (`38×4px #D9E4DE`). Title "Vælg tankstørrelse" (Nunito 800, 19px), helper "Find den i instruktionsbogen eller på tankdækslet. Vi bruger den til rækkevidde." Then a **3-column chip grid**: 45 L, 50 L, **55 L (selected)**, 60 L, 65 L, "Anden". Selected chip: `2px solid #2D6A4F`, `#EAF4EE` bg, text `#1A5138`, corner check. Unselected: `1.5px solid #E2EDE8`. Forest **"Gem"** button (full width, 48px, 13px radius) at bottom.
@@ -64,11 +75,15 @@ Title "Angiv tankstatus", helper "Bilen har kørt siden sidste syn — fortæl o
 ### 6. Edit sheet — Ejerafgift → fast udgift · ref `S4`
 Title "Opret som fast udgift", helper "Vi lægger ejerafgiften i budgettet, så den deles automatisk hver periode." An **amber-tinted amount card** (`#FEF7F0` bg, `#F6D9BC` border): "460 kr" (amber mono, 20px) + "Grøn ejerafgift · fra registret" (`#A0522D`). **Interval** segmented control: Månedligt / **Halvårligt (selected)** / Årligt. Row "Næste betaling → 12. juli 2026". **This is the one money-action button** — it uses the **amber** variant (`#F4A261` bg, Deep-Forest `#1A2E1F` text): "Opret fast udgift".
 
+### 7. Edit sheet — Tilføj reparation · ref `S5`
+Opens from any "Tilføj reparation" affordance (the B1 empty state, the B2 footer, or the B2 section "Tilføj" link). Title "Tilføj reparation". Fields: **Hvad blev lavet** (text, "Nye vinterdæk"), a two-column row **Dato** (date field, "27. nov 2025") + **Km-tæller** (mono, "92.400"), **Værksted (valgfrit)** (text, "Dæk & Fælge ApS"), and **Beløb** (input showing the amount in **amber mono** "4.280" with a "kr" suffix — money treatment). Below, a **"Del udgift med crew"** toggle row (`#F2F7F4` bg) shown **on** (Forest track), sub-line "Deles ligeligt mellem 3 personer" — this is what makes the repair a splittable shared expense. Forest **"Gem reparation"** button. (Save button is Forest, not amber: the action is "log a repair", not a money transfer — amber stays on the amount field only.)
+
 ---
 
 ## Interactions & Behavior
 - **Task rows (B1 "Skal udfyldes" card)** open the matching bottom sheet: Tankstørrelse→S1, Forsikring→S2, Ejerafgift→S4, Tankstatus→S3.
-- **"Rediger" / "Opdater"** links on filled sections re-open the corresponding sheet pre-populated.
+- **"Tilføj reparation"** (B1 empty-state link, B2 header link, B2 footer button) opens **S5**. Saving appends an entry to Reparationshistorik. If "Del udgift med crew" is on, the entry is created as a shared expense and shows the "Delt med N" pill; if off, it shows a "Del udgift" chip that opens the split flow later.
+- **"Rediger" / "Opdater"** links on filled sections re-open the corresponding sheet pre-populated. Syn has no edit affordance (registry-owned).
 - **Bottom sheets** slide up from the bottom; use spring easing `cubic-bezier(0.34, 1.56, 0.64, 1)` for the enter, ~340ms. Grab-handle + tap-outside/swipe-down to dismiss.
 - **Saving a sheet** dismisses it and updates the corresponding section on the Bilen screen; the two-track band counts update, and once all four tasks are done the screen transitions from the B1 state to the B2 (complete) state.
 - **Buttons** — press = `scale(0.97)` spring; hover/press = darken bg ~10%. Amber save button (S4) only.
@@ -77,8 +92,9 @@ Title "Opret som fast udgift", helper "Vi lægger ejerafgiften i budgettet, så 
 
 ## State Management
 Per-car profile object with two provenance groups:
-- **`fromRegistry`** (read-only, editable-if-wrong): make/model, year, fuelType, consumption, nextInspection (`næste syn`), ownershipTax amount.
+- **`fromRegistry`** (read-only, editable-if-wrong): make/model, year, fuelType, consumption, `syn {nextInspection, lastInspection: {date, result}}`, ownershipTax amount.
 - **`ownerSupplied`** (the four tasks): `tankSize` (L), `insurance {coverage, renewalDate, premium, deductible}`, `ownershipTaxRecurring {interval, nextPayment, created:bool}`, `fuelStatus {levelPct, litersEstimate, odometerNow, updatedAt}`.
+- **`repairs`** (owner-logged, array; not part of the completion count): each `{description, date, workshop?, odometer, amount, shared:bool, sharedWith:number}`. `amount` renders amber mono; when `shared`, the entry is also a shared expense split among `sharedWith` people.
 - **Derived:** `completedTaskCount` / total (drives the two-track band and the B1↔B2 state), fuel `range` estimate (from tankSize × levelPct × consumption), and running fuel level (each logged trip decrements from the last `fuelStatus` reading).
 - A boolean `isComplete` = all four owner tasks done → renders the B2 layout and the "Alt er sat op" style confirmation.
 
@@ -107,13 +123,15 @@ Shadows: green-tinted (`rgba(26,46,31,…)`). Cards: `0 1px 3px rgba(26,46,31,.0
 Motion: spring `cubic-bezier(0.34,1.56,0.64,1)` for interactive/enter; standard `cubic-bezier(0.4,0,0.2,1)` for colour/opacity. Durations 80/140/220/340ms.
 
 ## Assets
-- **Icons:** Lucide (2px stroke) — the mock inlines equivalents: `fuel`, `shield`, `file-text`/receipt, `calendar`, `droplet`, `gauge`, `chevron-right`, `chevron-down`, `check`, `x`. Use the codebase's existing icon set (Lucide names above) rather than the inline SVGs here.
+- **Icons:** Lucide (2px stroke) — the mock inlines equivalents: `fuel`, `shield`, `file-text`/receipt, `calendar`, `droplet`, `gauge`, `wrench` (Reparationshistorik), `check-circle` (sidste syn), `upload`/share (the "Del udgift" chip), `plus` ("Tilføj reparation"), `chevron-right`, `chevron-down`, `check`, `x`. Use the codebase's existing icon set (Lucide names above) rather than the inline SVGs here.
 - **No photographic or brand imagery** is used on this screen.
 
 ## Files
-- `GoVehlo Bilen.dc.html` — the design reference (canvas with B1, B2, S1–S4, plus a rejected Direction-A and a spec table). Build only the phone contents described above.
+- `GoVehlo Bilen.dc.html` — the design reference (canvas with B1, B2, S1–S5, plus a rejected Direction-A and a spec table). Build only the phone contents described above.
 - `screenshots/01-overview.png` — the chosen split-tracks screen, B1 (left) + B2 (right), top.
 - `screenshots/04-tracks-lower.png` — lower portions of B1 (Fra registret + muted incomplete) and B2 (Tankstatus + Forsikring).
+- `screenshots/06-syn-repair.png` — the **Syn** section and **Reparationshistorik** in both states (B1 empty state left, B2 populated list right).
 - `screenshots/02-sheets.png` — edit sheets S1 (Tankstørrelse) + S2 (Forsikring), top.
 - `screenshots/05-sheets-2.png` — edit sheets S3 (Tankstatus) + S4 (Ejerafgift).
+- `screenshots/07-s5-repair-sheet.png` — edit sheet **S5** (Tilføj reparation) with the split-with-crew toggle.
 - `screenshots/03-spec.png` — field-provenance spec table (documentation reference, not a screen to build).
